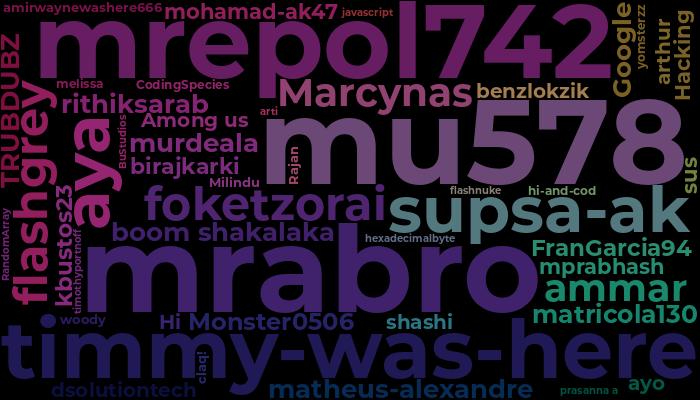
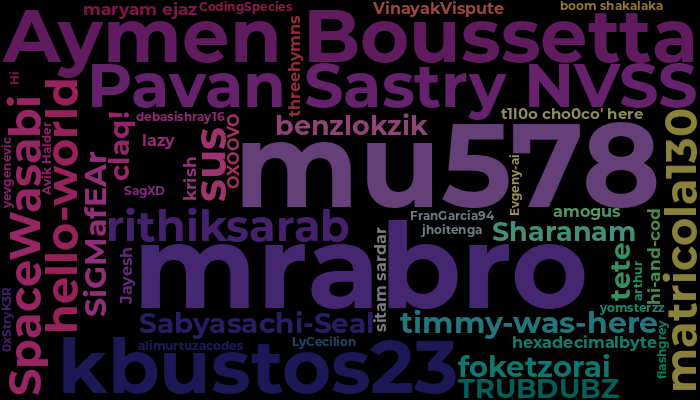
@Kakarotto-bot added 'hala madrid - a manucian' to the Pass

diff --git a/README.md b/README.md
@@ -1,10 +1,14 @@
-<!--✏WORDBOARD--> 
+<h3>
+  
+[<b>▷▻⊳ 𝐁𝐚𝐜𝐤 𝐓𝐨 𝐏𝐫𝐨𝐟𝐢𝐥𝐞 ⊲◅◁</b>](https://github.com/t1noo7/t1noo7)    
+#
+<!--✏WORDBOARD --> 
 <h2 align="center">
 Join the Global Boarding Pass ૮ ˶ᵔ ᵕ ᵔ˶ ა
 
-### :thought_balloon: [Add your name](https://github.com/t1noo7/globalboardingpass/issues/new?template=addword.md&title=globalboardingpass%7Cadd%7C%3CINSERT-WORD%3E) to see your teleport in real time 𖦹.𖥔 ݁ ˖
+### :thought_balloon: [Add your name](https://github.com/t1noo7/globalboardingpass/issues/new?template=addword.md&title=globalpass%7Cadd%7C%3CINSERT-WORD%3E) to see your teleport in real time 𖦹.𖥔 ݁ ˖
 
-:star2: Don't like the arrangement? [Regenerate it](https://github.com/t1noo7/globalboardingpass/issues/new?template=shufflecloud.md&title=globalboardingpass%7Cshuffle) :game_die:
+:star2: Don't like the arrangement? [Regenerate it](https://github.com/t1noo7/globalboardingpass/issues/new?template=shufflecloud.md&title=globalpass%7Cshuffle) :game_die:
 
 <div align="center">
 
@@ -15,3 +19,4 @@ Join the Global Boarding Pass ૮ ˶ᵔ ᵕ ᵔ˶ ა
 
 <img src="globalboardingpass/wordcloud.png" alt="GlobalBoardingPass" width="100%">
 </div>
+
